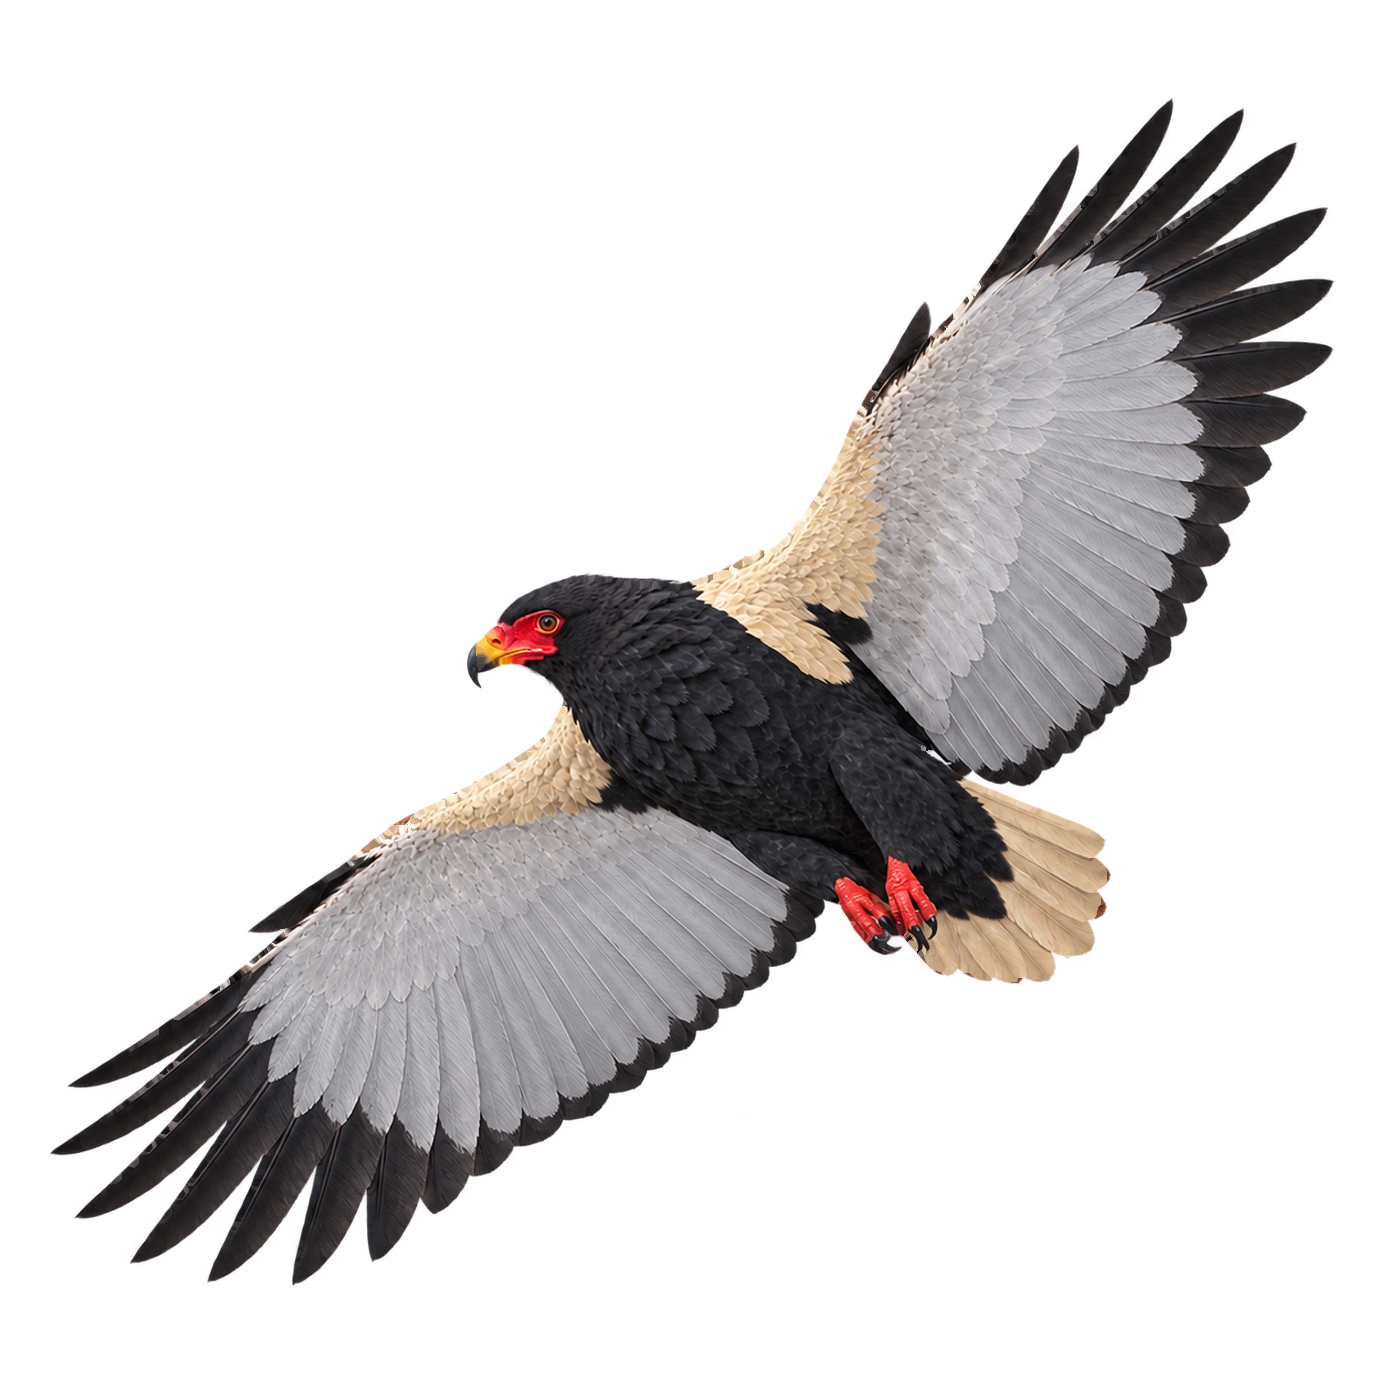
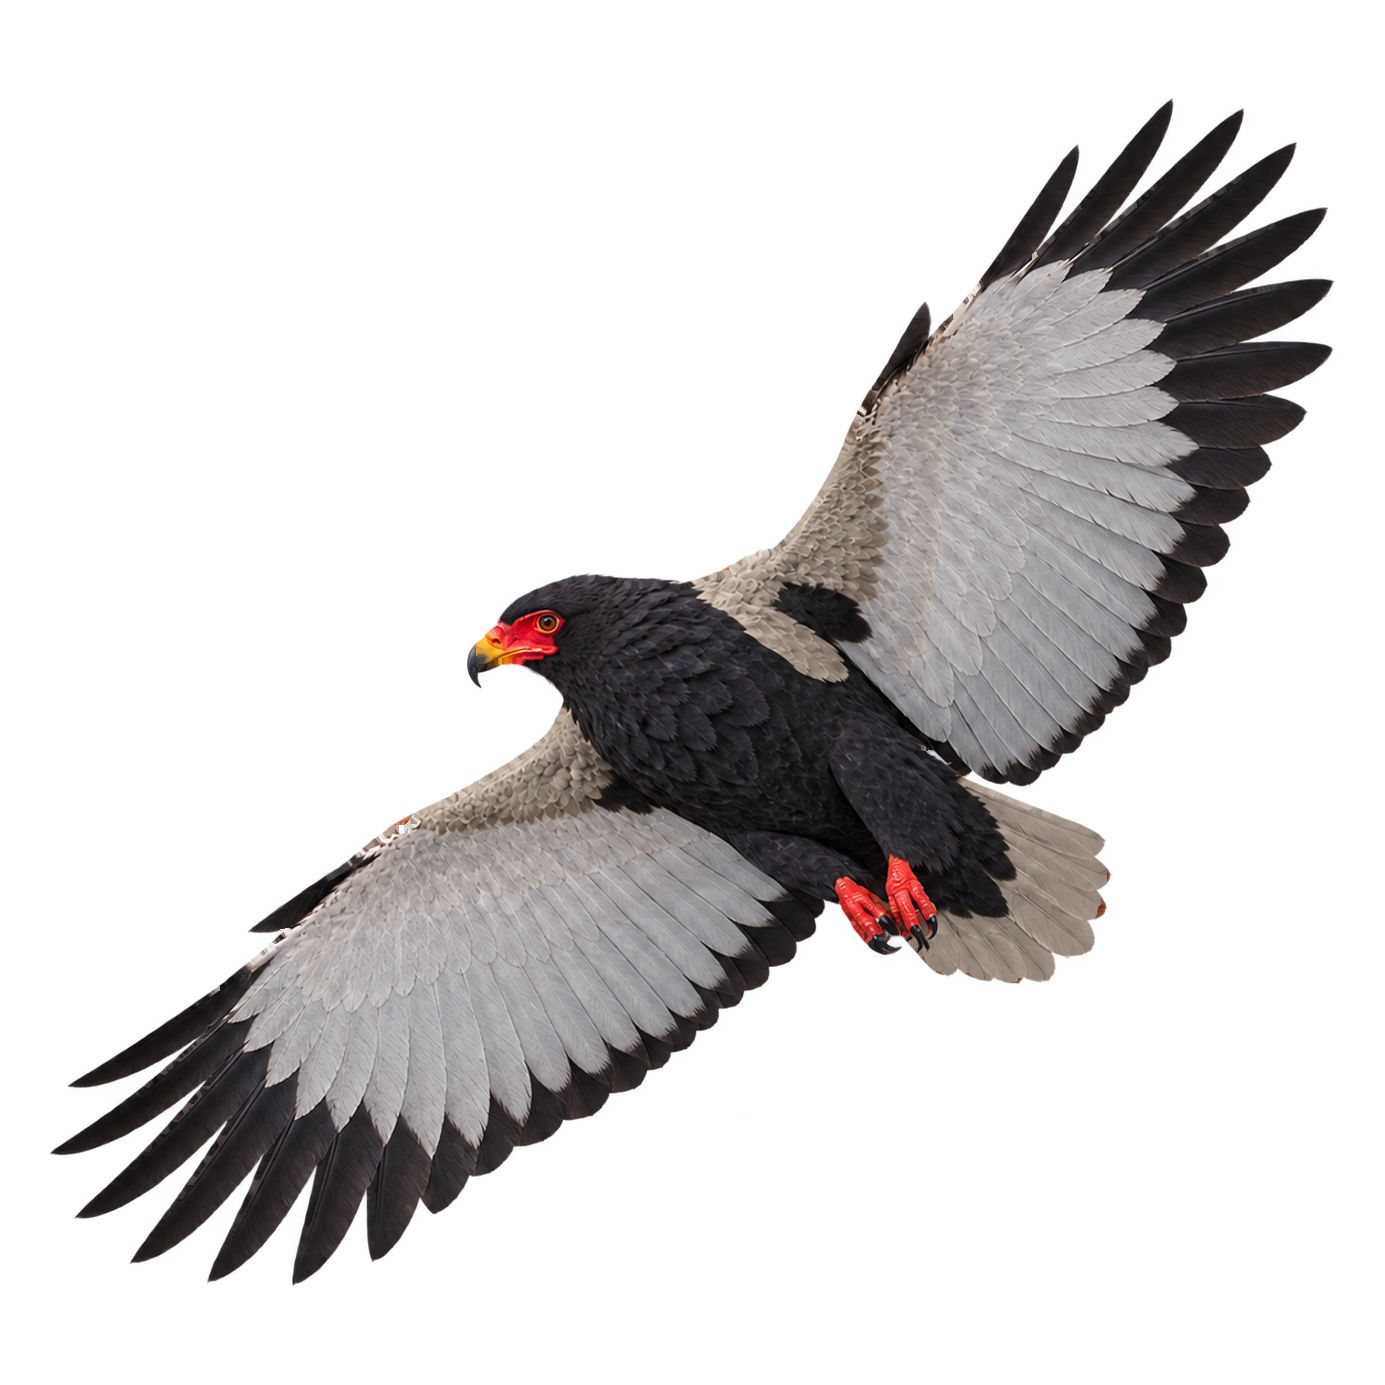
fix(images): mute bateleur cream morphs to natural gray-beige

Changed region(s): [[0.4968, 0.1552, 0.9004, 0.7141], [0.0931, 0.4968, 0.5899, 0.8383]]

diff --git a/lib/morphs.ts b/lib/morphs.ts
@@ -224,8 +224,8 @@ export const birdMorphs: Record<MorphSpeciesId, BirdMorphConfig> = {
           'Die adulte cremefarbene Rückenform wird hier nicht auf das überwiegend braune Jugendkleid übertragen.',
         adultColors: [
           ['Schwarz', '#24242A'],
-          ['Creme', '#E1D1AE'],
-          ['Heller Kastanienton', '#BF9365'],
+          ['Graubeige', '#C1BCB0'],
+          ['Helles Graubraun', '#AAA092'],
           ['Silbergrau', '#C4C1BF'],
         ],
         juvenileColors: [
